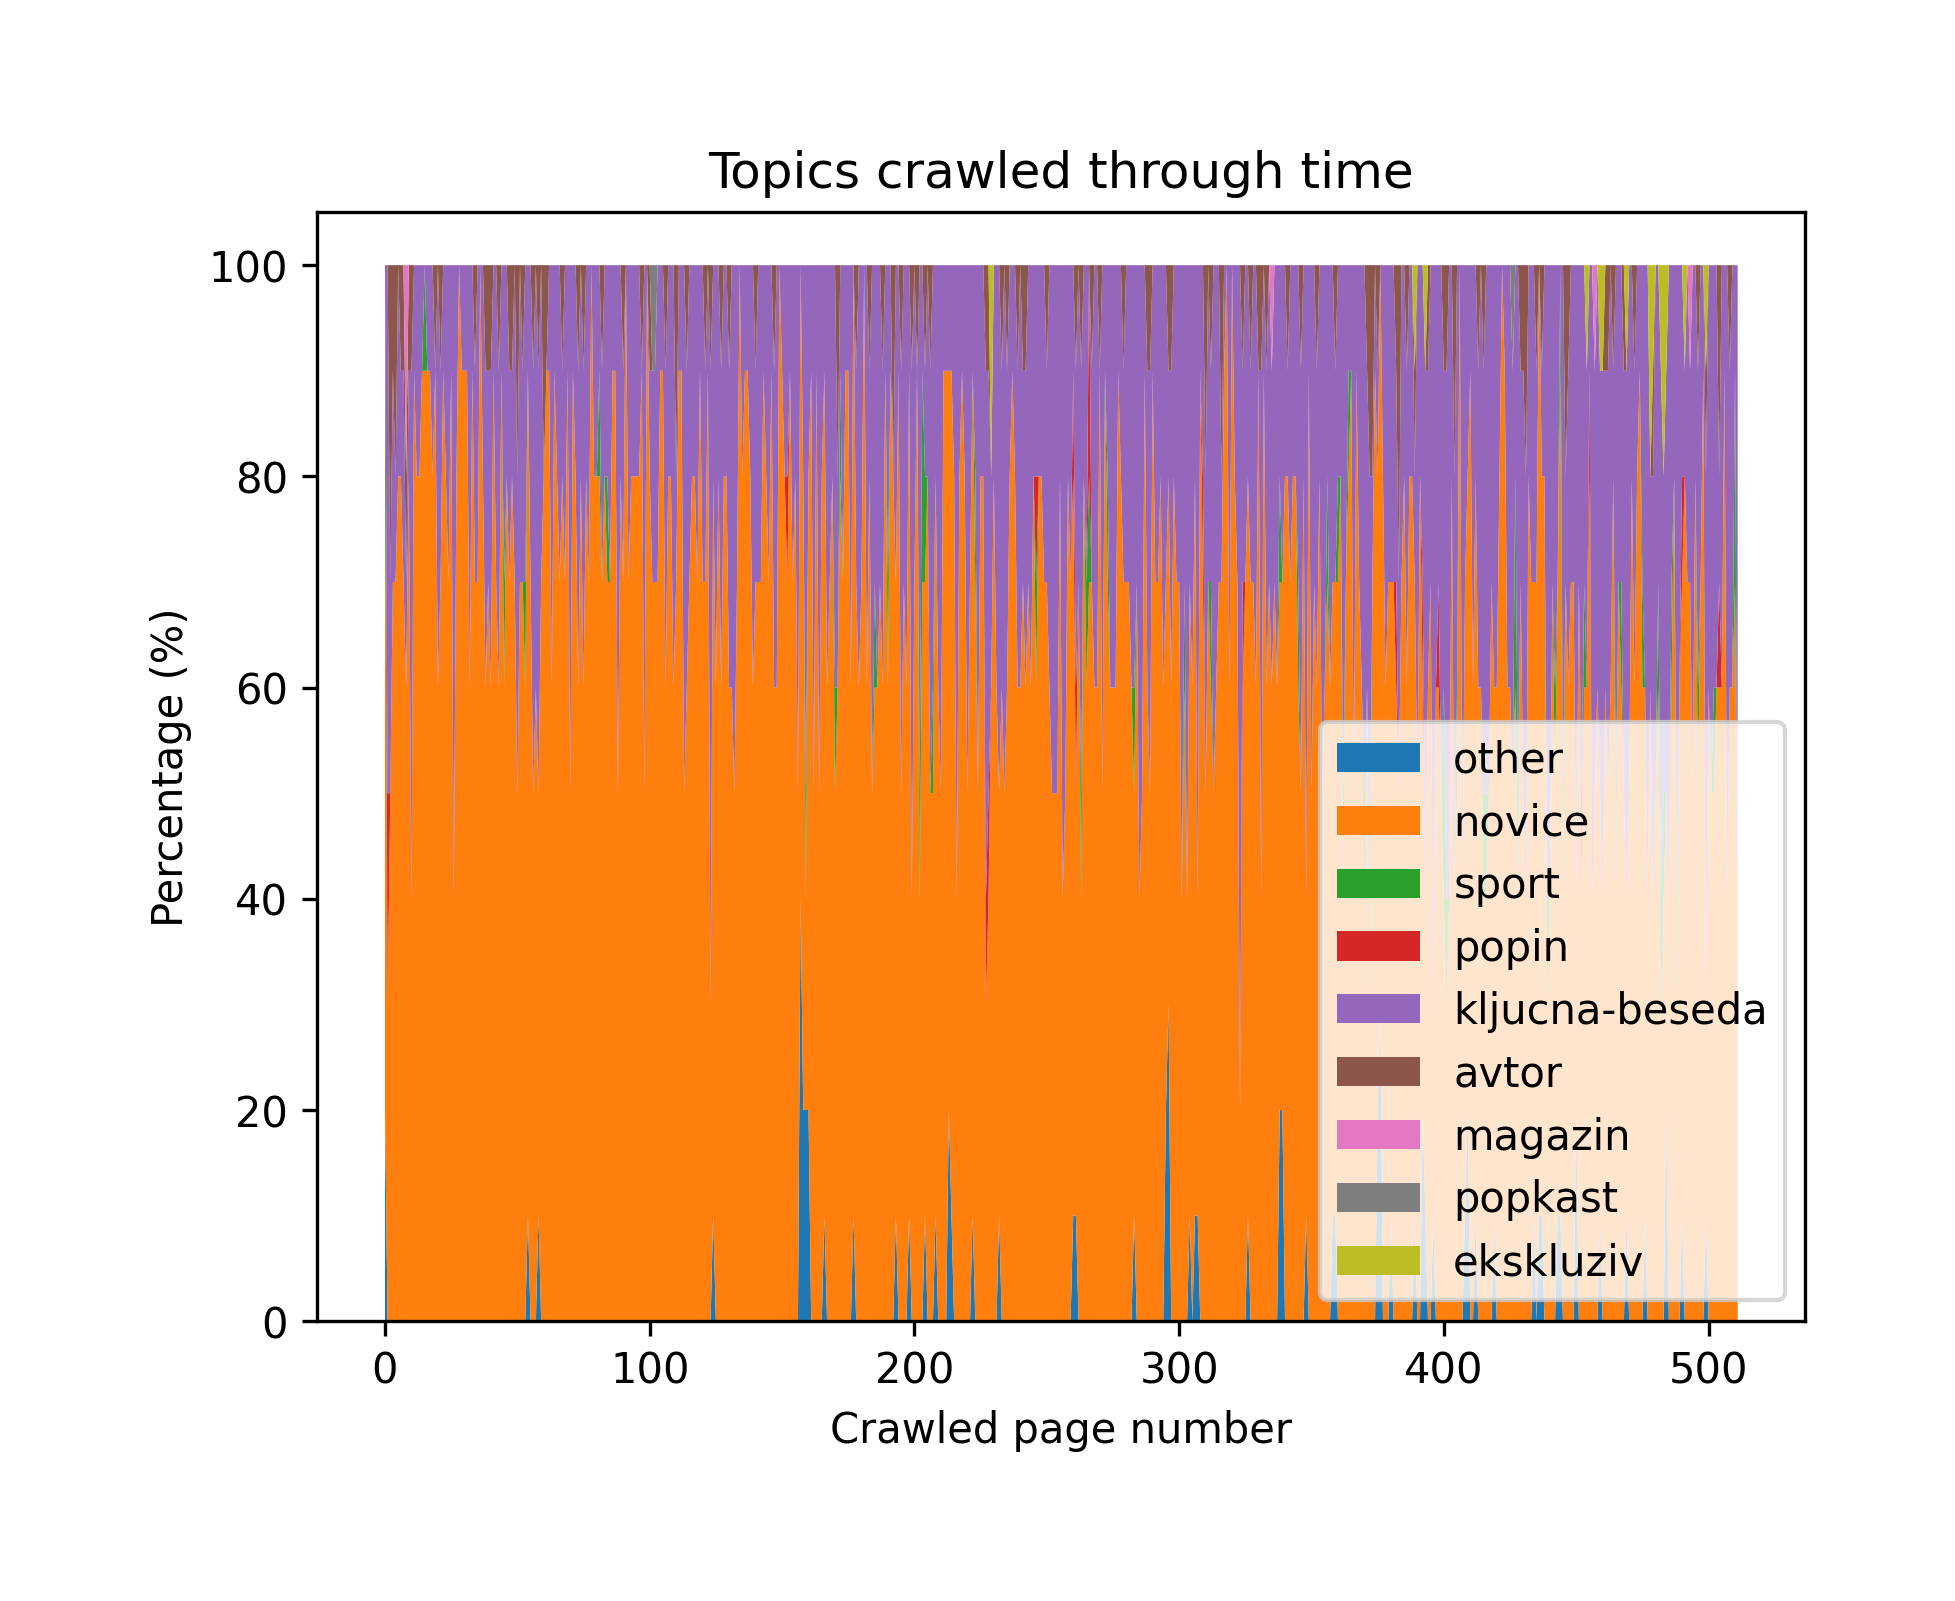
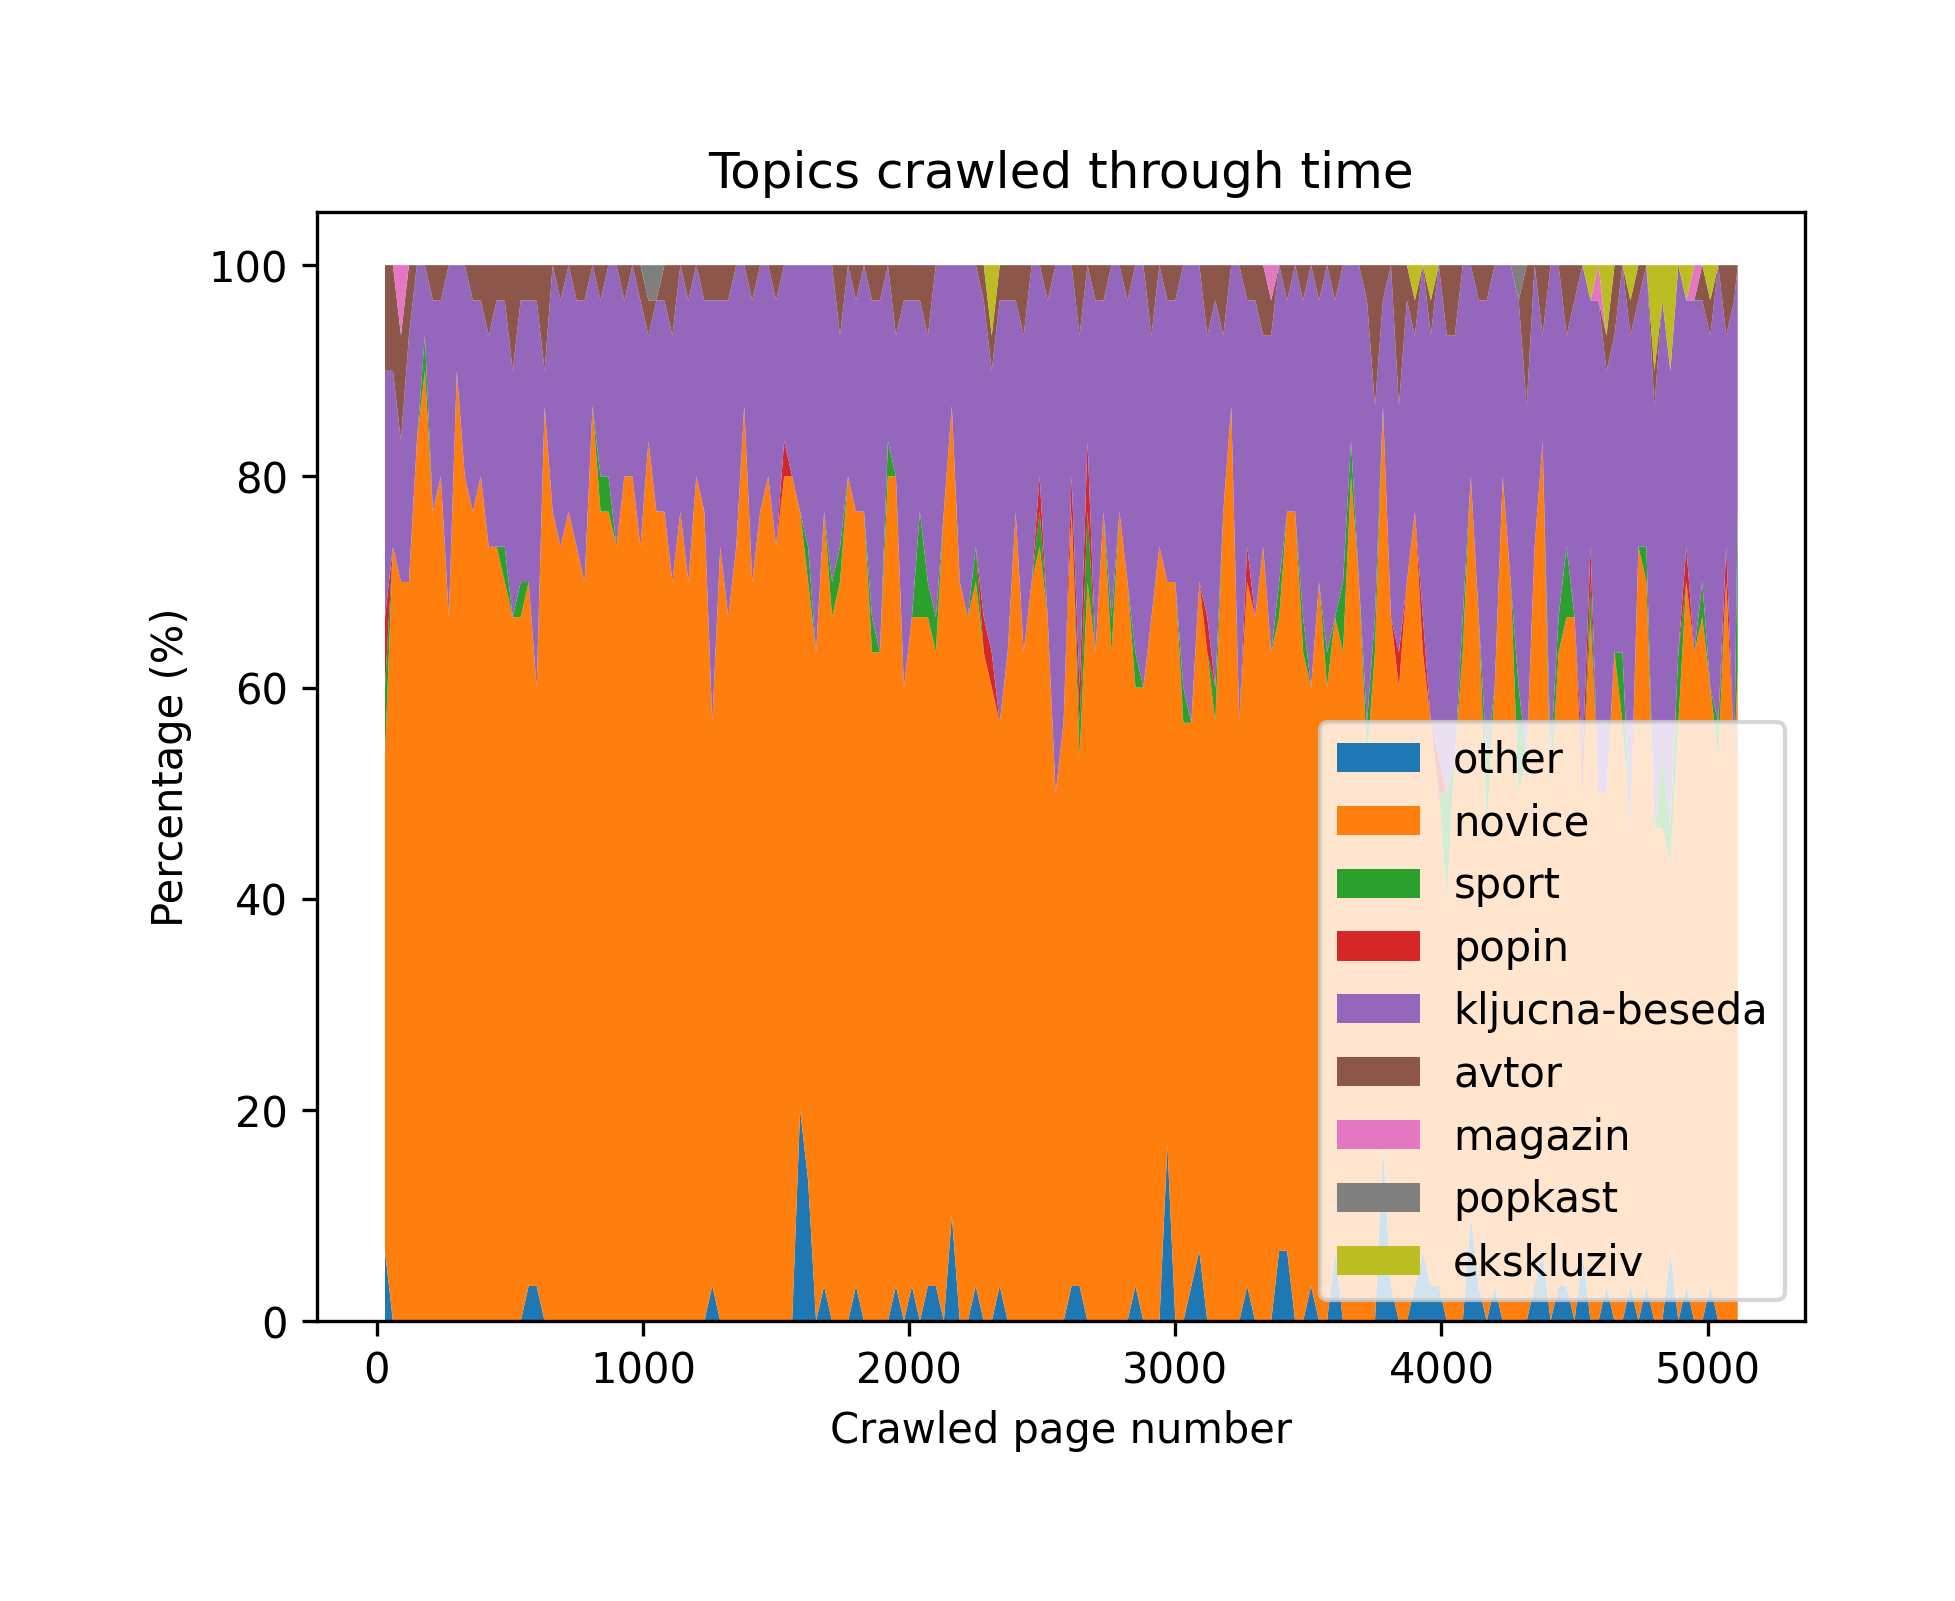
Fixed a graph in the report.

diff --git a/report_latex/main.tex b/report_latex/main.tex
@@ -187,7 +187,7 @@ The Figure~\ref{fig:umap_query_clusters} highlights a subset of clusters that we
 
 \subsection{24Ur.com Topography}
 
-We conducted a focused categorical and topographical analysis of our crawl of \textit{24Ur.com}. Specifically, we examined a sequence of 500 consecutively crawled pages and analyzed the distribution of link topics within them. As shown in Figure~\ref{fig:topic_ratios}, the crawl is strongly dominated by links belonging to the \textit{novice} category, while links under \textit{kljucna-beseda} constitute the second largest proportion. This distribution is consistent with the query parameter, as articles related to international conflicts are predominantly categorized within these topics. As the number of crawled pages increases, the \textit{novice} category slightly shrinks as the crawler has to start exploring other unvisited alternatives (\textit{ekskluziv}, more of \textit{kljucna-beseda} and \textit{other}).
+We conducted a focused categorical and topographical analysis of our crawl of \textit{24Ur.com}. Specifically, we examined a sequence of 5,100 consecutively crawled pages and analyzed the distribution of link topics within them. As shown in Figure~\ref{fig:topic_ratios}, the crawl is strongly dominated by links belonging to the \textit{novice} category, while links under \textit{kljucna-beseda} constitute the second largest proportion. This distribution is consistent with the query parameter, as articles related to international conflicts are predominantly categorized within these topics. As the number of crawled pages increases, the \textit{novice} category slightly shrinks as the crawler has to start exploring other unvisited alternatives (\textit{ekskluziv}, more of \textit{kljucna-beseda} and \textit{other}).
 
 \begin{figure}
     \centering
@@ -197,7 +197,7 @@ We conducted a focused categorical and topographical analysis of our crawl of \t
 \end{figure}
 
 
-To visualize all 5100 crawled pages and their links, we plotted a circular link diagram \ref{fig:category_links}. Pages were groupped based on the part of the URL after the domain - topics. Links were drawn in the color of the topic that the source article is on, showing how often each topic referenced others.
+To visualize all 5,100 crawled pages and their links, we plotted a circular link diagram \ref{fig:category_links}. Pages were groupped based on the part of the URL after the domain - topics. Links were drawn in the color of the topic that the source article is on, showing how often each topic referenced others.
 
 Most pages are articles from the \textit{novice} topic, which is what we hoped for. Each article contains some keywords, which have their own pages, listing other articles with the same keywords. For our test query, \textit{šport} articles are second most common as Russia is also very involved in sports.
 

diff --git a/pa1/crawler/client/visualize_data.py b/pa1/crawler/client/visualize_data.py
@@ -142,7 +142,7 @@ def visualize_path(page_links):
 
         ordered_sections.append(from_parsed_section)
 
-    time_slot_size = 10
+    time_slot_size = 30
     counter = 0
     time_slot_counter = {s: 0 for s in section_counters.keys()}
     stack_plot_data = {s: [] for s in section_counters.keys()}
@@ -175,15 +175,21 @@ def visualize_path(page_links):
         print("No data to plot")
         return
 
-    # --- Convert to percentages ---
+    # --- Convert to percentages and track actual pages per slot ---
     num_slots = len(values[0])
+    slot_totals = []
     for i in range(num_slots):
         total = sum(values[j][i] for j in range(len(values)))
+        slot_totals.append(total)
         if total > 0:
             for j in range(len(values)):
                 values[j][i] = (values[j][i] / total) * 100
 
-    x = range(num_slots)
+    x = []
+    running_total = 0
+    for total in slot_totals:
+        running_total += total
+        x.append(running_total)
 
     ax.stackplot(
         x,
